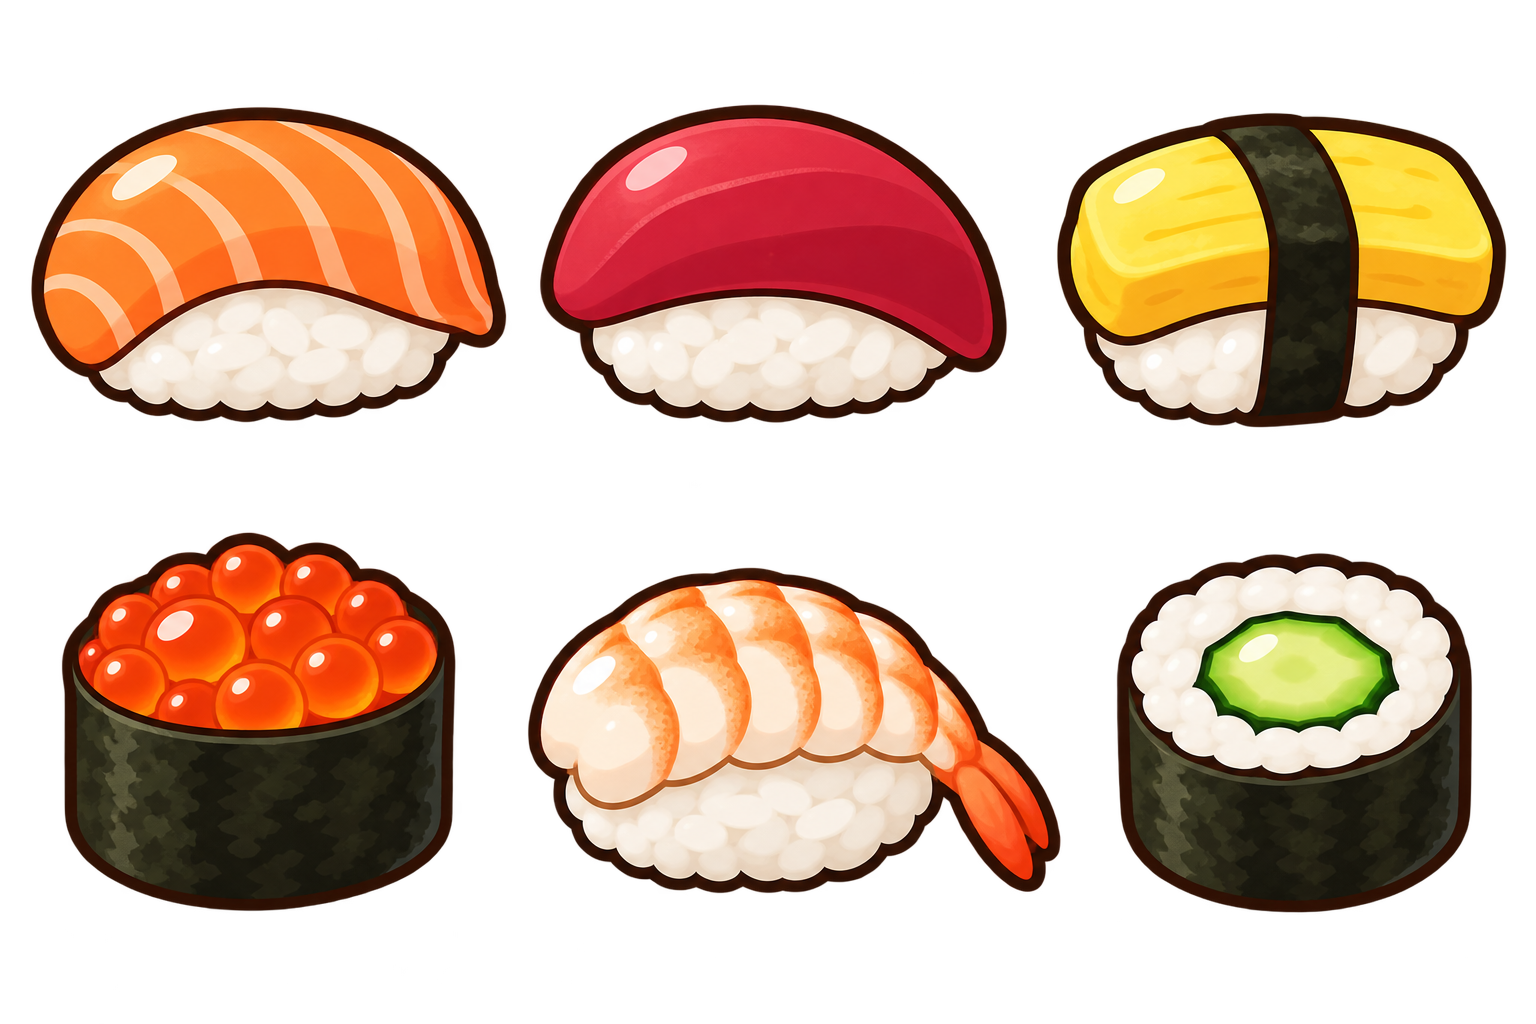
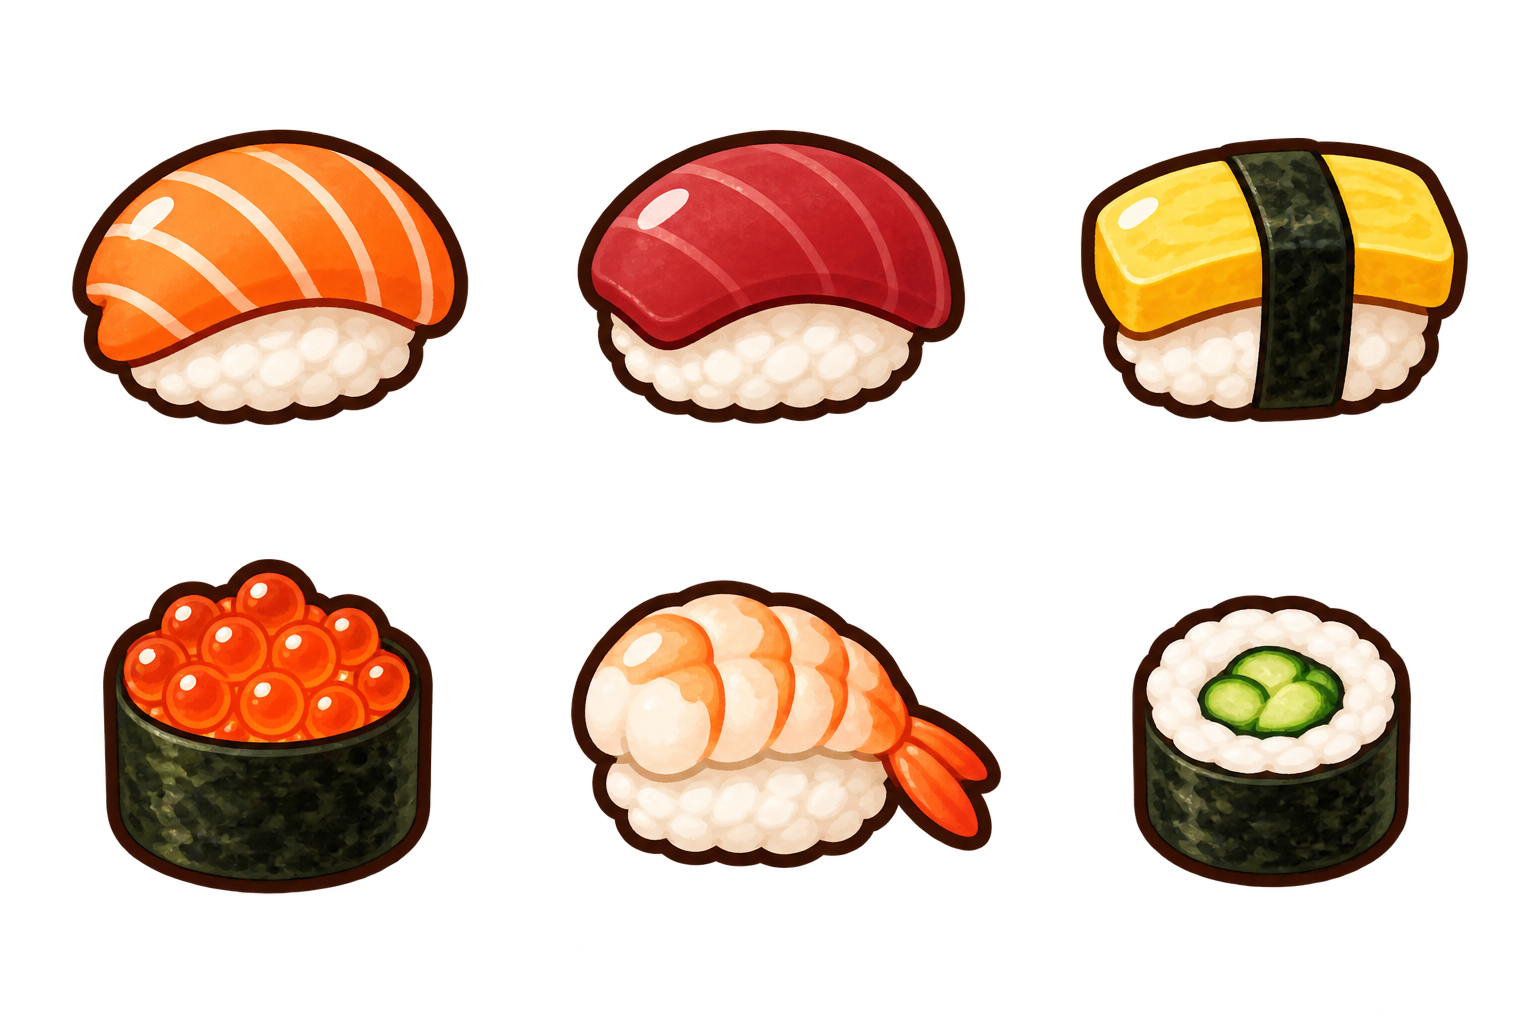
feat: render pieces from sushi.png sprite sheet

diff --git a/lib/game/piece_painter.dart b/lib/game/piece_painter.dart
@@ -1,6 +1,8 @@
 import 'dart:math' as math;
 import 'dart:ui';
 
+import 'package:flutter/services.dart';
+
 import '../core/piece.dart';
 
 /// Grey-box art: every kind differs by colour AND shape (colour-blind safe,
@@ -23,6 +25,27 @@ abstract final class PiecePainter {
     ..style = PaintingStyle.stroke
     ..strokeWidth = 2;
 
+  static const _sheetAsset = 'assets/sushi/sushi.png';
+  static Image? _sheet;
+
+  /// Loads the sprite sheet (3 columns x 2 rows, in [PieceKind] order).
+  /// Until it finishes, pieces fall back to the vector art.
+  static Future<void> loadSprites() async {
+    if (_sheet != null) return;
+    final data = await rootBundle.load(_sheetAsset);
+    final codec = await instantiateImageCodec(data.buffer.asUint8List());
+    _sheet = (await codec.getNextFrame()).image;
+  }
+
+  static void _sprite(Canvas canvas, Rect dst, PieceKind kind) {
+    final sheet = _sheet!;
+    final cw = sheet.width / 3, ch = sheet.height / 2;
+    final i = kind.index;
+    final src = Rect.fromLTWH((i % 3) * cw, (i ~/ 3) * ch, cw, ch);
+    canvas.drawImageRect(
+        sheet, src, dst, Paint()..filterQuality = FilterQuality.medium);
+  }
+
   static void paint(
       Canvas canvas, double s, PieceKind? kind, SpecialType? special) {
     final body = Rect.fromLTWH(s * 0.1, s * 0.1, s * 0.8, s * 0.8);
@@ -40,6 +63,12 @@ abstract final class PiecePainter {
 
     if (kind == null) {
       _plate(canvas, c, s);
+      return;
+    }
+
+    if (_sheet != null) {
+      _sprite(canvas, Rect.fromLTWH(0, 0, s, s), kind);
+      _special(canvas, s, body, c, special);
       return;
     }
 
@@ -100,6 +129,11 @@ abstract final class PiecePainter {
     canvas.drawCircle(Offset(c.dx - s * 0.12, ey), s * 0.045, _eye);
     canvas.drawCircle(Offset(c.dx + s * 0.12, ey), s * 0.045, _eye);
 
+    _special(canvas, s, body, c, special);
+  }
+
+  static void _special(
+      Canvas canvas, double s, Rect body, Offset c, SpecialType? special) {
     switch (special) {
       case SpecialType.knifeRow:
         _knife(canvas, c, s, horizontal: true);
@@ -107,7 +141,8 @@ abstract final class PiecePainter {
         _knife(canvas, c, s, horizontal: false);
       case SpecialType.wasabi:
         final at = Offset(body.right - s * 0.06, body.top + s * 0.06);
-        canvas.drawCircle(at, s * 0.15, Paint()..color = const Color(0xFF8BC34A));
+        canvas.drawCircle(
+            at, s * 0.15, Paint()..color = const Color(0xFF8BC34A));
         canvas.drawCircle(at, s * 0.15, _outline);
       case SpecialType.soyFish:
         _fish(canvas, Offset(body.right - s * 0.1, body.bottom - s * 0.08), s);

diff --git a/lib/main.dart b/lib/main.dart
@@ -7,6 +7,7 @@ import 'package:flutter/services.dart';
 import 'core/game_engine.dart';
 import 'core/level.dart';
 import 'core/progress.dart';
+import 'game/piece_painter.dart';
 import 'game/sushi_game.dart';
 import 'ui/hud.dart';
 import 'ui/level_select.dart';
@@ -15,6 +16,7 @@ void main() async {
   WidgetsFlutterBinding.ensureInitialized();
   await SystemChrome.setPreferredOrientations([DeviceOrientation.portraitUp]);
   await _enterImmersive();
+  await PiecePainter.loadSprites();
 
   // Bars come back after an edge swipe, the keyboard or a system dialog.
   // Hide them again after a short delay.
